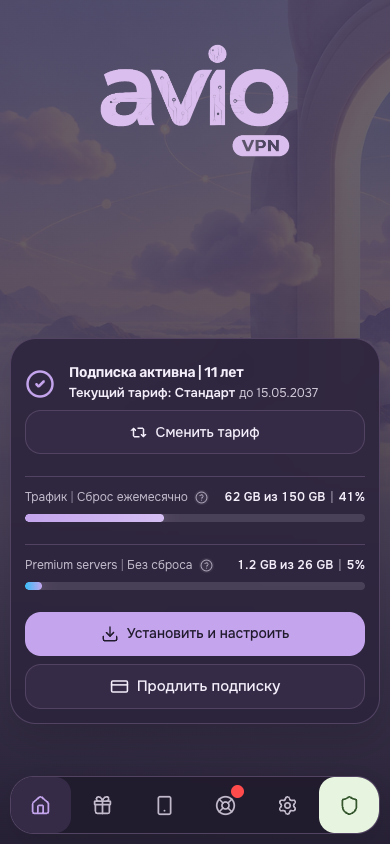
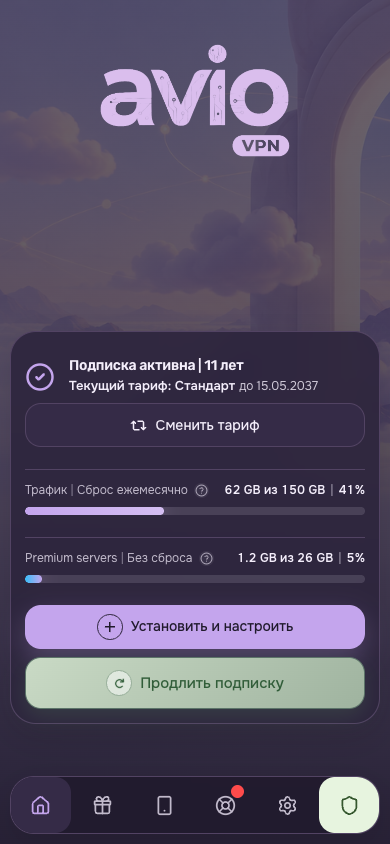
Polish subscription and tariff actions

diff --git a/style.css b/style.css
@@ -537,17 +537,14 @@
   display: none;
 }
 .theme-key-avio-landing .payment-submit-button::before {
-  content: "→";
+  content: "";
   display: inline-grid;
   width: 24px;
   height: 24px;
   flex: 0 0 24px;
   place-items: center;
   border-radius: 999px;
-  background: color-mix(in srgb, var(--accent-contrast) 18%, transparent);
-  color: var(--accent-contrast);
-  font-size: 18px;
-  line-height: 1;
+  background: color-mix(in srgb, var(--accent-contrast) 18%, transparent) url("images/action-arrow.png") center / 15px 15px no-repeat;
 }
 .theme-key-avio-landing .payment-submit-button::after {
   content: "";
@@ -866,6 +863,193 @@ html.theme-key-avio-landing :is(.install-platform-item, .language-select-item, .
 .theme-key-avio-landing .bottom-nav button.active > svg {
   animation: avio-nav-icon-float 2.4s ease-in-out infinite;
 }
+
+/* Home CTAs and inactive subscription state. */
+.theme-key-avio-landing .home-bottom .status-card-inactive {
+  padding: 12px 14px;
+  border: 1px solid color-mix(in srgb, #d59521 46%, var(--border));
+  border-radius: 18px;
+  background: linear-gradient(135deg, color-mix(in srgb, #ffd875 26%, var(--panel)), color-mix(in srgb, #fff4d6 74%, var(--panel)));
+  box-shadow: inset 0 1px 0 color-mix(in srgb, #fff 72%, transparent);
+}
+.theme-key-avio-landing .sub-status-inactive {
+  color: #8a5a00;
+}
+.theme-key-avio-landing .sub-status-inactive > svg {
+  display: none;
+}
+.theme-key-avio-landing .sub-status-inactive::before {
+  content: "!";
+  display: inline-grid;
+  width: 32px;
+  height: 32px;
+  flex: 0 0 32px;
+  place-items: center;
+  border: 2px solid currentColor;
+  border-radius: 999px;
+  background: color-mix(in srgb, #fff 62%, transparent);
+  font-size: 20px;
+  font-weight: 750;
+  line-height: 1;
+}
+.theme-key-avio-landing .home-bottom .status-card-inactive h2 {
+  color: #68470b;
+  font-size: 16px;
+  font-weight: 650;
+}
+.theme-key-avio-landing .action-stack > .btn:first-child:not([data-webapp-action]),
+.theme-key-avio-landing .home-bottom:has(.status-card-inactive) [data-webapp-action="open-payment"],
+.theme-key-avio-landing .subscription-renew-action {
+  position: relative;
+  overflow: hidden;
+  isolation: isolate;
+}
+.theme-key-avio-landing .action-stack > .btn:first-child:not([data-webapp-action]) > svg,
+.theme-key-avio-landing .home-bottom:has(.status-card-inactive) [data-webapp-action="open-payment"] > svg,
+.theme-key-avio-landing .subscription-renew-action > svg {
+  display: none;
+}
+.theme-key-avio-landing .action-stack > .btn:first-child:not([data-webapp-action])::before,
+.theme-key-avio-landing .home-bottom:has(.status-card-inactive) [data-webapp-action="open-payment"]::before,
+.theme-key-avio-landing .subscription-renew-action::before {
+  display: inline-grid;
+  width: 24px;
+  height: 24px;
+  flex: 0 0 24px;
+  place-items: center;
+  border-radius: 999px;
+  font-size: 18px;
+  font-weight: 650;
+  line-height: 1;
+}
+.theme-key-avio-landing .action-stack > .btn:first-child:not([data-webapp-action])::before {
+  content: "";
+  border: 1.5px solid color-mix(in srgb, var(--accent-contrast) 78%, transparent);
+  background:
+    linear-gradient(var(--accent-contrast), var(--accent-contrast)) center / 10px 1.5px no-repeat,
+    linear-gradient(var(--accent-contrast), var(--accent-contrast)) center / 1.5px 10px no-repeat;
+}
+.theme-key-avio-landing .home-bottom:has(.status-card-inactive) [data-webapp-action="open-payment"]::before {
+  content: "";
+  background: color-mix(in srgb, var(--accent-contrast) 18%, transparent) url("images/action-arrow.png") center / 15px 15px no-repeat;
+}
+.theme-key-avio-landing .subscription-renew-action {
+  border-color: color-mix(in srgb, #67a96f 48%, var(--border));
+  background: linear-gradient(135deg, color-mix(in srgb, #dff3d8 88%, var(--panel)), color-mix(in srgb, #ccebc6 72%, var(--panel)));
+  color: #315d39;
+  box-shadow: 0 8px 22px color-mix(in srgb, #67a96f 18%, transparent);
+  animation: avio-renew-breathe 3.1s ease-in-out infinite;
+}
+.theme-key-avio-landing .subscription-renew-action::before {
+  content: "";
+  border: 1px solid color-mix(in srgb, #315d39 38%, transparent);
+  background: color-mix(in srgb, #fff 52%, transparent) url("images/action-renew.png") center / 15px 15px no-repeat;
+}
+.theme-key-avio-landing .action-stack > .btn:first-child:not([data-webapp-action]),
+.theme-key-avio-landing .home-bottom:has(.status-card-inactive) [data-webapp-action="open-payment"] {
+  box-shadow: 0 10px 26px color-mix(in srgb, var(--accent) 25%, transparent);
+  animation: avio-home-cta-breathe 2.8s ease-in-out infinite;
+}
+
+/* Tariff catalogue: the configured second item is Premium in the current shop. */
+.theme-key-avio-landing .tariff-list {
+  display: grid;
+  gap: 10px;
+}
+.theme-key-avio-landing .tariff-list .tariff-row {
+  min-height: 104px;
+  padding: 14px 16px;
+}
+.theme-key-avio-landing .tariff-row .option-row-main > strong {
+  font-size: 17px;
+  font-weight: 650;
+  line-height: 1.25;
+}
+.theme-key-avio-landing .tariff-row .option-row-main > small {
+  font-size: 14px;
+  font-weight: 400;
+  line-height: 1.38;
+}
+.theme-key-avio-landing .tariff-row .option-row-meta > em {
+  font-size: 15px;
+  font-weight: 650;
+  line-height: 1.22;
+}
+.theme-key-avio-landing .tariff-list .tariff-row:nth-child(2) {
+  order: -1;
+  border-color: color-mix(in srgb, var(--accent) 58%, var(--border));
+  background: linear-gradient(145deg, color-mix(in srgb, var(--accent) 13%, var(--panel)), color-mix(in srgb, var(--panel) 94%, transparent));
+  box-shadow: 0 10px 26px color-mix(in srgb, var(--accent) 14%, transparent), inset 0 0 0 1px color-mix(in srgb, var(--accent) 24%, transparent);
+  animation: avio-premium-breathe 3.2s ease-in-out infinite;
+}
+.theme-key-avio-landing .tariff-list .tariff-row:nth-child(2) .option-row-main > strong,
+.theme-key-avio-landing .tariff-list .tariff-row:nth-child(2) .option-row-meta > em {
+  color: var(--accent);
+}
+.theme-key-avio-landing .tariff-list .tariff-row:nth-child(2) .option-row-main > strong::after {
+  content: "★";
+  margin-left: 7px;
+  color: #e4a11b;
+  font-size: .82em;
+}
+
+/* Compact tariff details with the back action beside the dialog close button. */
+.theme-key-avio-landing .webapp-payment-dialog:has(.back-inline) > .dialog-head-custom {
+  min-height: 36px;
+}
+.theme-key-avio-landing .webapp-payment-dialog:has(.back-inline) .back-inline {
+  position: absolute;
+  z-index: 5;
+  top: 18px;
+  left: 18px;
+  min-height: 36px;
+  padding: 0 10px;
+  border: 1px solid color-mix(in srgb, var(--accent) 22%, var(--border));
+  border-radius: 12px;
+  background: color-mix(in srgb, var(--panel-2) 78%, transparent);
+  color: var(--text);
+  font-size: 12px;
+  font-weight: 600;
+}
+.theme-key-avio-landing .checkout-tariff-card-head {
+  display: grid;
+  grid-template-columns: minmax(0, 1fr) auto;
+  gap: 4px 8px;
+}
+.theme-key-avio-landing .checkout-tariff-title-line {
+  display: contents;
+}
+.theme-key-avio-landing .checkout-tariff-title-line > strong {
+  grid-column: 1;
+  grid-row: 1;
+  align-self: center;
+}
+.theme-key-avio-landing .checkout-tariff-description-line,
+.theme-key-avio-landing .checkout-tariff-title-line.is-wrapped .checkout-tariff-description-line {
+  grid-column: 1 / -1;
+  grid-row: 2;
+  margin-top: 1px;
+}
+.theme-key-avio-landing .checkout-tariff-edit {
+  grid-column: 2;
+  grid-row: 1;
+}
+.theme-key-avio-landing .checkout-tariff-fact {
+  min-height: 32px;
+}
+
+@keyframes avio-home-cta-breathe {
+  0%, 100% { transform: translateY(0); box-shadow: 0 9px 24px color-mix(in srgb, var(--accent) 22%, transparent); }
+  50% { transform: translateY(-1px); box-shadow: 0 13px 30px color-mix(in srgb, var(--accent) 34%, transparent); }
+}
+@keyframes avio-renew-breathe {
+  0%, 100% { transform: translateY(0); box-shadow: 0 7px 20px color-mix(in srgb, #67a96f 15%, transparent); }
+  50% { transform: translateY(-1px); box-shadow: 0 11px 27px color-mix(in srgb, #67a96f 27%, transparent); }
+}
+@keyframes avio-premium-breathe {
+  0%, 100% { box-shadow: 0 8px 22px color-mix(in srgb, var(--accent) 11%, transparent), inset 0 0 0 1px color-mix(in srgb, var(--accent) 22%, transparent); }
+  50% { box-shadow: 0 13px 30px color-mix(in srgb, var(--accent) 22%, transparent), inset 0 0 0 1px color-mix(in srgb, var(--accent) 42%, transparent); }
+}
 .theme-key-avio-landing :is(
   .btn,
   .period-card,
@@ -894,4 +1078,11 @@ html.theme-key-avio-landing :is(.install-platform-item, .language-select-item, .
     padding: 0;
   }
   .theme-key-avio-landing .checkout-tariff-edit::after { display: none; }
+  .theme-key-avio-landing .webapp-payment-dialog:has(.back-inline) .back-inline {
+    left: 14px;
+    max-width: calc(100% - 76px);
+    overflow: hidden;
+    text-overflow: ellipsis;
+    white-space: nowrap;
+  }
 }

diff --git a/README.md b/README.md
@@ -1,9 +1,9 @@
 # Avio — Твой интернет
 
-Версия 1.5.3: верх оплаты стал компактнее, карточки периодов ниже, кнопка оплаты
-перенесена перед способом оплаты и промокодом, получила новую иконку и мягкую
-анимацию. Настройка лимитов тарифа теперь подписана, а анимация нижней навигации
-не смещает крайние кнопки. Годовой тариф остаётся визуально выделенным.
+Версия 1.5.4: заметное состояние неактивной подписки, анимированные кнопки оплаты,
+подключения устройства и продления. Продление выделено светло-зелёным цветом.
+В списке тарифов увеличен текст и визуально поднят текущий второй тариф «Премиум»;
+детальная карточка тарифа стала компактнее, а возврат к списку перенесён к крестику.
 
 Установить тему можно по адресу этого публичного репозитория или ZIP-архивом
 из раздела Releases.
